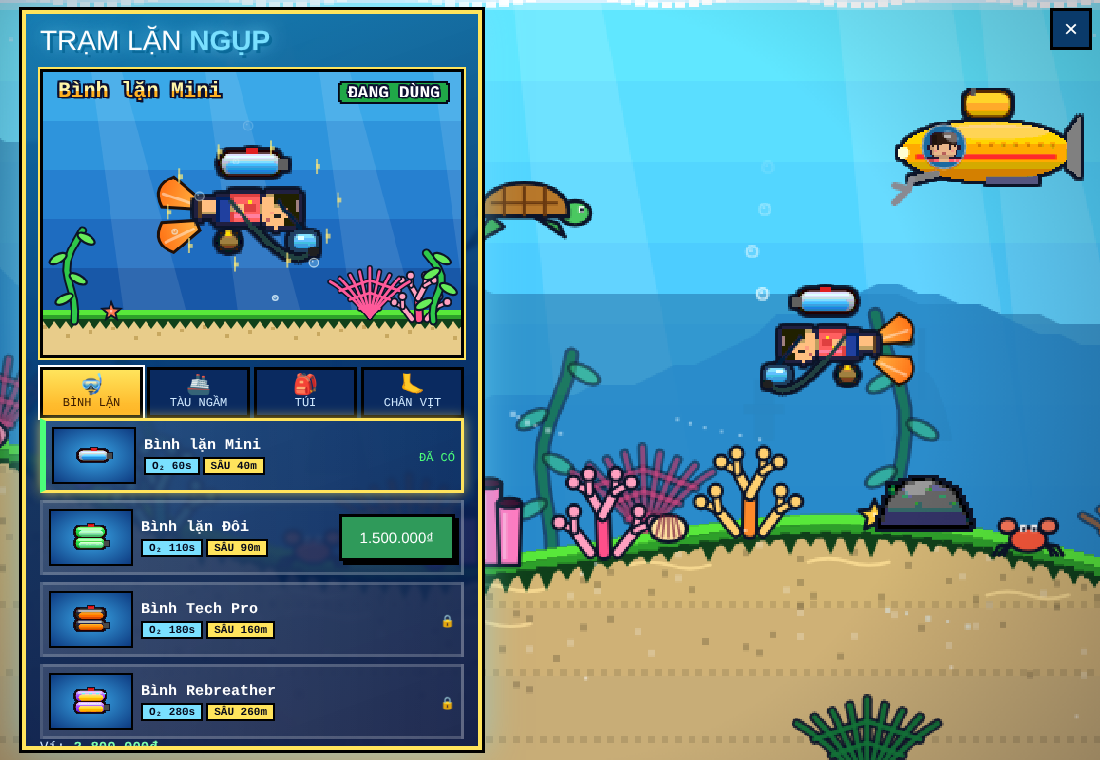
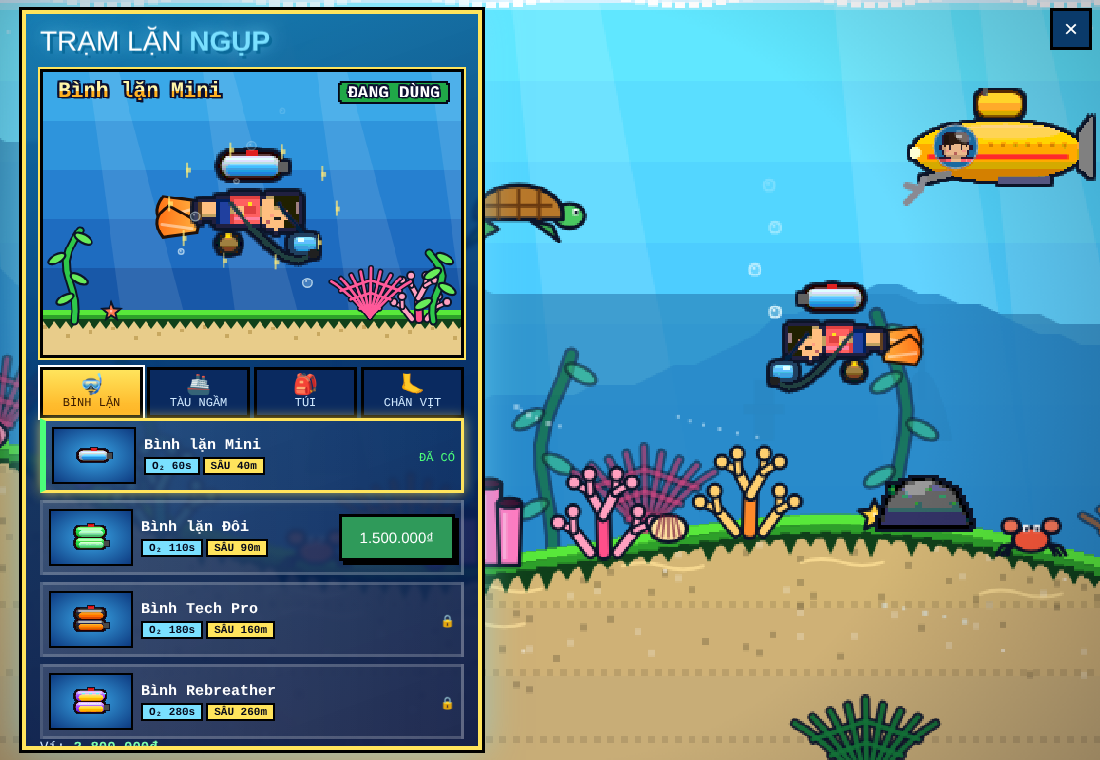
z74: game lặn - sửa cache nhân vật vẽ lại mỗi khung (giật), pattern nền cát, thêm xác tàu đắm và kho báu 300k-2tr
Claude-Session: https://claude.ai/code/session_014q7k2v6edq7HoAjm7rjcRv

diff --git a/avatar.html b/avatar.html
@@ -3862,10 +3862,13 @@ function dvPickItemType(m){const r=Math.random();
 function dvWorld(D){D.items=[];D.wrecks=[];
  for(let x=140;x<DV_WL-200;x+=150+Math.random()*220){if(Math.random()<.6){const y=dvFloor(x)-7;D.items.push({t:dvPickItemType(y/DV_M),x,y})}}
  for(let x=500;x<DV_WL;x+=900+Math.random()*700){const y=dvFloor(x)-9;D.items.push({t:'o2',x,y})}
- DV_WR.forEach(x=>{const fy=dvFloor(x);D.wrecks.push({x,y:fy-26});const m=fy/DV_M;
+ const trv=()=>Math.round((3e5+Math.random()*1.7e6)/5e4)*5e4;
+ const wr=DV_WR.slice();for(let k=0,x=700;x<DV_WL-500&&k<40;k++,x+=500+Math.random()*420){if(wr.every(q=>Math.abs(q-x)>520))wr.push(Math.round(x))}
+ wr.forEach((x,wi)=>{const fy=dvFloor(x);D.wrecks.push({x,y:fy-26,fl:Math.random()<.5?-1:1,sc:.85+Math.random()*.35});const m=fy/DV_M;
   for(let i=0;i<3;i++){const ix=x-40+i*45+Math.random()*10;D.items.push({t:dvPickItemType(m),x:ix,y:dvFloor(ix)-7})}
   D.items.push({t:'o2',x:x+60,y:dvFloor(x+60)-9});
-  if(Math.random()<.35){const v=Math.min(15e6,Math.round((1.5e6+m*45e3*(.7+Math.random()*.6))/5e4)*5e4);D.items.push({t:'chest',x:x+8,y:fy-8,v})}});
+  if(Math.random()<(wi<DV_WR.length?.9:.7))D.items.push({t:'chest',x:x+8,y:fy-8,v:trv()});if(Math.random()<.25)D.items.push({t:'chest',x:x-50,y:dvFloor(x-50)-8,v:trv()})});
+ for(let x=420;x<DV_WL-300;x+=780+Math.random()*900){const y=dvFloor(x)-8;D.items.push({t:'chest',x:Math.round(x),y,v:trv()})}
  const kx=10400,ky=dvFloor(kx);D.items.push({t:'kchest',x:kx+210,y:dvFloor(kx+210)-10,v:15e6});
  D.stn=DV_STX.map(x=>({x,y:dvFloor(x)}));D.cr=[];D.cr.push({t:'kraken',x:kx,y:ky-70,vx:0,vy:0,dir:1,ph:0,cd:0,atk:[],at:2})}
 function dvDim(){const a=innerWidth/Math.max(1,innerHeight);if(a<1.2)return[250,Math.min(560,Math.round(250/a))];return[Math.round(225*Math.min(2.4,a)),225]}
@@ -4096,7 +4099,7 @@ function dvDiverBody(gr){const fr=P&&P.fr&&P.fr.side&&P.fr.side[0];if(!fr)return
  g.strokeStyle='#14283a';g.lineWidth=2.4;g.beginPath();g.moveTo(hx+4,hy-1);g.lineTo(hx-10,hy-18);g.stroke();
  g.strokeStyle='#2a3a48';g.lineWidth=2.2;g.beginPath();g.moveTo(hx+9,hy+10);g.quadraticCurveTo(hx-2,hy+26,-12,-4);g.stroke();g.fillStyle='#111';dvRR(g,hx+7,hy+8,6,5,2);g.fill();
  g.restore();
- DVC2.sw={fr,c:dvOut(dvPix(c,9),DVO,1.6)};return DVC2.sw.c}
+ DVC2.sw={fr,key,c:dvOut(dvPix(c,9),DVO,1.6)};return DVC2.sw.c}
 function dvDrawDiver(g,x,y,dir,vx,vy,t,mv,inv,gr){gr=gr||dvEqNow();const b=dvDiverBody(gr);if(!b)return;const Z=DVZ;g.save();g.translate(Math.round(x*Z)/Z,Math.round(y*Z)/Z);const rot=Math.round(Math.max(-.5,Math.min(.5,vy/110))*(dir)*.9/.1)*.1;if(rot)g.rotate(rot);if(dir<0)g.scale(-1,1);g.imageSmoothingEnabled=false;
  const s=1/Z;g.scale(s,s);
  // chân vịt đạp nước (vẽ sau thân)
@@ -4316,7 +4319,7 @@ function dvRender(){const D=DV,cv=$('#dvCv');if(!cv)return;const Z=DVZ;if(cv.wid
  {g.globalAlpha=.55;const x0=Math.floor((cx*.7-20)/38),x1=Math.floor((cx*.7+W+20)/38);for(let j=x0;j<=x1;j++){const r=dvH(j,41);if(r>.5)continue;const wx=j*38+dvH(j,42)*16,sx=wx-cx*.7,fy=dvFloor(wx+cx*.3)-cy,m=dvFloor(wx+cx*.3)/DV_M;if(sx<-30||sx>W+30||fy<-40||fy>H+60)continue;const kk=Math.floor(r*200);if(m<60){if(kk<40)dKelp(g,sx,fy,t,40+kk%24,'#1a9a52','#3ac880',j);else dFan(g,sx,fy,t,kk%2?'#e84a8a':'#e87a2a')}else if(m<180){if(kk<50)dKelp(g,sx,fy,t,44+kk%24,'#157a8a','#2aa8b0',j);else dTube(g,sx,fy,t,'#6a8ae8')}else{if(kk<50)dShroom(g,sx,fy,t,'80,220,200');else dColumn(g,sx,fy,.5)}}g.globalAlpha=1}
  // đáy biển
  {g.save();g.beginPath();g.moveTo(-4,H+8);for(let sx=-4;sx<=W+4;sx+=3)g.lineTo(sx,dvFloor(cx+sx)-cy);g.lineTo(W+4,H+8);g.closePath();g.clip();
-  const bh=20,w0=Math.floor(cy/bh)*bh;for(let wy=w0;wy<cy+H+bh;wy+=bh){const m=Math.max(0,(wy+bh/2)/DV_M),c=dvSand(Math.round(m/8)*8).map(v=>Math.min(255,Math.round(v*1.06)));g.fillStyle=dvRgb(c);g.fillRect(-6,wy-cy,W+12,bh+.6);g.fillStyle='rgba(0,0,0,.1)';for(let sx=((wy/bh)&1)*2;sx<W;sx+=4)g.fillRect(sx,wy-cy+bh-2,2,2)}
+  const bh=20,w0=Math.floor(cy/bh)*bh;for(let wy=w0;wy<cy+H+bh;wy+=bh){const m=Math.max(0,(wy+bh/2)/DV_M),c=dvSand(Math.round(m/8)*8).map(v=>Math.min(255,Math.round(v*1.06)));g.fillStyle=dvRgb(c);g.fillRect(-6,wy-cy,W+12,bh+.6);{const par=(wy/bh)&1;if(!DVC2.dpat)DVC2.dpat=[0,1].map(q=>{const[tc,tg]=dvCv(4,2);tg.fillStyle='rgba(0,0,0,.1)';tg.fillRect(q*2,0,2,2);return g.createPattern(tc,'repeat')});g.save();g.translate(0,wy-cy+bh-2);g.fillStyle=DVC2.dpat[par];g.fillRect(0,0,W,2);g.restore()}}
   for(let sx=0;sx<=W;sx+=4){const wx=Math.floor((cx+sx)/4),y=dvFloor(cx+sx)-cy;for(let r=0;r<5;r++){const h=dvH(wx,r+5);if(h>.82){g.fillStyle='rgba(0,0,0,.18)';g.fillRect(sx,y+8+r*7+((wx*7)%5),2,2)}else if(h<.1){g.fillStyle='rgba(255,255,255,.22)';g.fillRect(sx,y+6+r*7,2,2)}}}
   g.restore();
   // mép cỏ biển + răng cưa tối (kiểu game island)
@@ -4325,7 +4328,7 @@ function dvRender(){const D=DV,cv=$('#dvCv');if(!cv)return;const Z=DVZ;if(cv.wid
  // trang trí
  g.lineJoin='round';for(let i=Math.floor((cx-50)/26);i<=Math.floor((cx+W+50)/26);i++){const r=dvH(i,2),wx=i*26+Math.floor(dvH(i,1)*12),fy=dvFloor(wx),m=fy/DV_M,x=wx-cx,y=fy-cy+2;if(y<-60||y>H+60)continue;dvDecor(g,i,Math.floor(r*100),m,x,y,t,Z)}
  const nr=dvStnNear();D.stn.forEach(st=>{if(st.x-cx<-60||st.x-cx>W+60)return;dvDrawStation(g,st,cx,cy,t,nr===st)});
- D.wrecks.forEach(w=>{const x=w.x-cx;if(x<-90||x>W+90)return;const sp=dvSpr2('wreck'),ww=sp.width/Z,hh=sp.height/Z;g.drawImage(sp,Math.round((x-ww/2)*Z)/Z,Math.round((w.y-cy-hh*.62)*Z)/Z,ww,hh)});
+ D.wrecks.forEach(w=>{const x=w.x-cx;if(x<-100||x>W+100)return;const sp=dvSpr2('wreck'),sc=w.sc||1,ww=sp.width/Z*sc,hh=sp.height/Z*sc;g.save();g.translate(Math.round(x*Z)/Z,Math.round((w.y-cy-hh*.62)*Z)/Z);if(w.fl<0)g.scale(-1,1);g.drawImage(sp,-ww/2,0,ww,hh);g.restore()});
  D.items.forEach(it=>{const x=it.x-cx,y=it.y-cy+Math.sin(t*2+it.x)*1.2;if(x<-30||x>W+30)return;const s=dvSpr2(it.t),w=s.width/Z,h=s.height/Z;
   if(it.t==='kchest'){const q=g.createRadialGradient(x,y,2,x,y,26+Math.sin(t*3)*3);q.addColorStop(0,'rgba(255,230,120,.5)');q.addColorStop(1,'rgba(255,230,120,0)');g.fillStyle=q;g.fillRect(x-34,y-34,68,68)}
   g.drawImage(s,Math.round((x-w/2)*Z)/Z,Math.round((y-h/2)*Z)/Z,w,h);
@@ -6852,7 +6855,7 @@ function openLmStory(){if(!S||mode!=='world'||modalOpen())return;$('#lmsBody').i
 <div><b>THUẾ THƯỞNG</b>Gốc Chủ đặt thuế 3% (mặc định), 6% (khi cây Lv15), 10% (Lv30) trên thưởng chơi game và Team Building của thành viên, đổ vào quỹ chung. Không có thuế đất. Dưới 3 thành viên thì buff giảm một nửa.</div>
 <div><b>MẸO</b>Bấm vào từng <strong>lô đất</strong> trong vườn để xem tên liên minh, quỹ, danh sách thành viên và nút góp quỹ. Thành viên có biểu tượng liên minh trên đầu. Mỗi người chỉ thuộc một liên minh, rời đi phải chờ 12 giờ mới vào lại.</div>`;$('#lmsOv').hidden=false;keys={}}
 $('#lmsGo').onclick=()=>{$('#lmsOv').hidden=true;walkNear(P2(GARD.gx,FENCE_Y-30))};
-const TEST={on:false,keep:null,fake:false},APPV='14.11.2026-z73';let ERRN=0;const ERRS={};
+const TEST={on:false,keep:null,fake:false},APPV='14.11.2026-z74';let ERRN=0;const ERRS={};
 function errReport(k,msg,stack){try{msg=String(msg||'').slice(0,200);if(!NET.on||!NET.uid||TEST.on||ERRN>=8||ERRS[msg])return;ERRS[msg]=1;ERRN++;NET.db.ref('errlog/'+NET.uid.slice(0,8)+'_'+Date.now().toString(36)).set({u:NET.uid,n:String(P&&P.name||'').slice(0,24),t:Date.now(),k,m:msg,s:String(stack||'').slice(0,700),v:APPV,ua:String(navigator.userAgent).slice(0,140),x:P?Math.round(P.x):0,y:P?Math.round(P.y):0,md:String(mode),vw:innerWidth+'x'+innerHeight}).catch(()=>{})}catch(e){}}
 addEventListener('error',e=>errReport('error',e.message+' @'+(e.lineno||''),e.error&&e.error.stack));addEventListener('unhandledrejection',e=>errReport('promise',e.reason&&e.reason.message||e.reason,e.reason&&e.reason.stack));
 function noopDb(){const f=()=>p;const p=new Proxy(f,{get:(t,k)=>k==='then'?undefined:k==='val'?()=>null:k==='exists'?()=>false:k==='key'?'':p,apply:()=>p});return p}

diff --git a/en/index.html b/en/index.html
@@ -3865,10 +3865,13 @@ function dvPickItemType(m){const r=Math.random();
 function dvWorld(D){D.items=[];D.wrecks=[];
  for(let x=140;x<DV_WL-200;x+=150+Math.random()*220){if(Math.random()<.6){const y=dvFloor(x)-7;D.items.push({t:dvPickItemType(y/DV_M),x,y})}}
  for(let x=500;x<DV_WL;x+=900+Math.random()*700){const y=dvFloor(x)-9;D.items.push({t:'o2',x,y})}
- DV_WR.forEach(x=>{const fy=dvFloor(x);D.wrecks.push({x,y:fy-26});const m=fy/DV_M;
+ const trv=()=>Math.round((3e5+Math.random()*1.7e6)/5e4)*5e4;
+ const wr=DV_WR.slice();for(let k=0,x=700;x<DV_WL-500&&k<40;k++,x+=500+Math.random()*420){if(wr.every(q=>Math.abs(q-x)>520))wr.push(Math.round(x))}
+ wr.forEach((x,wi)=>{const fy=dvFloor(x);D.wrecks.push({x,y:fy-26,fl:Math.random()<.5?-1:1,sc:.85+Math.random()*.35});const m=fy/DV_M;
   for(let i=0;i<3;i++){const ix=x-40+i*45+Math.random()*10;D.items.push({t:dvPickItemType(m),x:ix,y:dvFloor(ix)-7})}
   D.items.push({t:'o2',x:x+60,y:dvFloor(x+60)-9});
-  if(Math.random()<.35){const v=Math.min(15e6,Math.round((1.5e6+m*45e3*(.7+Math.random()*.6))/5e4)*5e4);D.items.push({t:'chest',x:x+8,y:fy-8,v})}});
+  if(Math.random()<(wi<DV_WR.length?.9:.7))D.items.push({t:'chest',x:x+8,y:fy-8,v:trv()});if(Math.random()<.25)D.items.push({t:'chest',x:x-50,y:dvFloor(x-50)-8,v:trv()})});
+ for(let x=420;x<DV_WL-300;x+=780+Math.random()*900){const y=dvFloor(x)-8;D.items.push({t:'chest',x:Math.round(x),y,v:trv()})}
  const kx=10400,ky=dvFloor(kx);D.items.push({t:'kchest',x:kx+210,y:dvFloor(kx+210)-10,v:15e6});
  D.stn=DV_STX.map(x=>({x,y:dvFloor(x)}));D.cr=[];D.cr.push({t:'kraken',x:kx,y:ky-70,vx:0,vy:0,dir:1,ph:0,cd:0,atk:[],at:2})}
 function dvDim(){const a=innerWidth/Math.max(1,innerHeight);if(a<1.2)return[250,Math.min(560,Math.round(250/a))];return[Math.round(225*Math.min(2.4,a)),225]}
@@ -4099,7 +4102,7 @@ function dvDiverBody(gr){const fr=P&&P.fr&&P.fr.side&&P.fr.side[0];if(!fr)return
  g.strokeStyle='#14283a';g.lineWidth=2.4;g.beginPath();g.moveTo(hx+4,hy-1);g.lineTo(hx-10,hy-18);g.stroke();
  g.strokeStyle='#2a3a48';g.lineWidth=2.2;g.beginPath();g.moveTo(hx+9,hy+10);g.quadraticCurveTo(hx-2,hy+26,-12,-4);g.stroke();g.fillStyle='#111';dvRR(g,hx+7,hy+8,6,5,2);g.fill();
  g.restore();
- DVC2.sw={fr,c:dvOut(dvPix(c,9),DVO,1.6)};return DVC2.sw.c}
+ DVC2.sw={fr,key,c:dvOut(dvPix(c,9),DVO,1.6)};return DVC2.sw.c}
 function dvDrawDiver(g,x,y,dir,vx,vy,t,mv,inv,gr){gr=gr||dvEqNow();const b=dvDiverBody(gr);if(!b)return;const Z=DVZ;g.save();g.translate(Math.round(x*Z)/Z,Math.round(y*Z)/Z);const rot=Math.round(Math.max(-.5,Math.min(.5,vy/110))*(dir)*.9/.1)*.1;if(rot)g.rotate(rot);if(dir<0)g.scale(-1,1);g.imageSmoothingEnabled=false;
  const s=1/Z;g.scale(s,s);
  // chân vịt đạp nước (vẽ sau thân)
@@ -4319,7 +4322,7 @@ function dvRender(){const D=DV,cv=$('#dvCv');if(!cv)return;const Z=DVZ;if(cv.wid
  {g.globalAlpha=.55;const x0=Math.floor((cx*.7-20)/38),x1=Math.floor((cx*.7+W+20)/38);for(let j=x0;j<=x1;j++){const r=dvH(j,41);if(r>.5)continue;const wx=j*38+dvH(j,42)*16,sx=wx-cx*.7,fy=dvFloor(wx+cx*.3)-cy,m=dvFloor(wx+cx*.3)/DV_M;if(sx<-30||sx>W+30||fy<-40||fy>H+60)continue;const kk=Math.floor(r*200);if(m<60){if(kk<40)dKelp(g,sx,fy,t,40+kk%24,'#1a9a52','#3ac880',j);else dFan(g,sx,fy,t,kk%2?'#e84a8a':'#e87a2a')}else if(m<180){if(kk<50)dKelp(g,sx,fy,t,44+kk%24,'#157a8a','#2aa8b0',j);else dTube(g,sx,fy,t,'#6a8ae8')}else{if(kk<50)dShroom(g,sx,fy,t,'80,220,200');else dColumn(g,sx,fy,.5)}}g.globalAlpha=1}
  // đáy biển
  {g.save();g.beginPath();g.moveTo(-4,H+8);for(let sx=-4;sx<=W+4;sx+=3)g.lineTo(sx,dvFloor(cx+sx)-cy);g.lineTo(W+4,H+8);g.closePath();g.clip();
-  const bh=20,w0=Math.floor(cy/bh)*bh;for(let wy=w0;wy<cy+H+bh;wy+=bh){const m=Math.max(0,(wy+bh/2)/DV_M),c=dvSand(Math.round(m/8)*8).map(v=>Math.min(255,Math.round(v*1.06)));g.fillStyle=dvRgb(c);g.fillRect(-6,wy-cy,W+12,bh+.6);g.fillStyle='rgba(0,0,0,.1)';for(let sx=((wy/bh)&1)*2;sx<W;sx+=4)g.fillRect(sx,wy-cy+bh-2,2,2)}
+  const bh=20,w0=Math.floor(cy/bh)*bh;for(let wy=w0;wy<cy+H+bh;wy+=bh){const m=Math.max(0,(wy+bh/2)/DV_M),c=dvSand(Math.round(m/8)*8).map(v=>Math.min(255,Math.round(v*1.06)));g.fillStyle=dvRgb(c);g.fillRect(-6,wy-cy,W+12,bh+.6);{const par=(wy/bh)&1;if(!DVC2.dpat)DVC2.dpat=[0,1].map(q=>{const[tc,tg]=dvCv(4,2);tg.fillStyle='rgba(0,0,0,.1)';tg.fillRect(q*2,0,2,2);return g.createPattern(tc,'repeat')});g.save();g.translate(0,wy-cy+bh-2);g.fillStyle=DVC2.dpat[par];g.fillRect(0,0,W,2);g.restore()}}
   for(let sx=0;sx<=W;sx+=4){const wx=Math.floor((cx+sx)/4),y=dvFloor(cx+sx)-cy;for(let r=0;r<5;r++){const h=dvH(wx,r+5);if(h>.82){g.fillStyle='rgba(0,0,0,.18)';g.fillRect(sx,y+8+r*7+((wx*7)%5),2,2)}else if(h<.1){g.fillStyle='rgba(255,255,255,.22)';g.fillRect(sx,y+6+r*7,2,2)}}}
   g.restore();
   // mép cỏ biển + răng cưa tối (kiểu game island)
@@ -4328,7 +4331,7 @@ function dvRender(){const D=DV,cv=$('#dvCv');if(!cv)return;const Z=DVZ;if(cv.wid
  // trang trí
  g.lineJoin='round';for(let i=Math.floor((cx-50)/26);i<=Math.floor((cx+W+50)/26);i++){const r=dvH(i,2),wx=i*26+Math.floor(dvH(i,1)*12),fy=dvFloor(wx),m=fy/DV_M,x=wx-cx,y=fy-cy+2;if(y<-60||y>H+60)continue;dvDecor(g,i,Math.floor(r*100),m,x,y,t,Z)}
  const nr=dvStnNear();D.stn.forEach(st=>{if(st.x-cx<-60||st.x-cx>W+60)return;dvDrawStation(g,st,cx,cy,t,nr===st)});
- D.wrecks.forEach(w=>{const x=w.x-cx;if(x<-90||x>W+90)return;const sp=dvSpr2('wreck'),ww=sp.width/Z,hh=sp.height/Z;g.drawImage(sp,Math.round((x-ww/2)*Z)/Z,Math.round((w.y-cy-hh*.62)*Z)/Z,ww,hh)});
+ D.wrecks.forEach(w=>{const x=w.x-cx;if(x<-100||x>W+100)return;const sp=dvSpr2('wreck'),sc=w.sc||1,ww=sp.width/Z*sc,hh=sp.height/Z*sc;g.save();g.translate(Math.round(x*Z)/Z,Math.round((w.y-cy-hh*.62)*Z)/Z);if(w.fl<0)g.scale(-1,1);g.drawImage(sp,-ww/2,0,ww,hh);g.restore()});
  D.items.forEach(it=>{const x=it.x-cx,y=it.y-cy+Math.sin(t*2+it.x)*1.2;if(x<-30||x>W+30)return;const s=dvSpr2(it.t),w=s.width/Z,h=s.height/Z;
   if(it.t==='kchest'){const q=g.createRadialGradient(x,y,2,x,y,26+Math.sin(t*3)*3);q.addColorStop(0,'rgba(255,230,120,.5)');q.addColorStop(1,'rgba(255,230,120,0)');g.fillStyle=q;g.fillRect(x-34,y-34,68,68)}
   g.drawImage(s,Math.round((x-w/2)*Z)/Z,Math.round((y-h/2)*Z)/Z,w,h);
@@ -6855,7 +6858,7 @@ function openLmStory(){if(!S||mode!=='world'||modalOpen())return;$('#lmsBody').i
 <div><b>THUẾ THƯỞNG</b>Gốc Chủ đặt thuế 3% (mặc định), 6% (khi cây Lv15), 10% (Lv30) trên thưởng chơi game và Team Building của thành viên, đổ vào quỹ chung. Không có thuế đất. Dưới 3 thành viên thì buff giảm một nửa.</div>
 <div><b>MẸO</b>Bấm vào từng <strong>lô đất</strong> trong vườn để xem tên liên minh, quỹ, danh sách thành viên và nút góp quỹ. Thành viên có biểu tượng liên minh trên đầu. Mỗi người chỉ thuộc một liên minh, rời đi phải chờ 12 giờ mới vào lại.</div>`;$('#lmsOv').hidden=false;keys={}}
 $('#lmsGo').onclick=()=>{$('#lmsOv').hidden=true;walkNear(P2(GARD.gx,FENCE_Y-30))};
-const TEST={on:false,keep:null,fake:false},APPV='14.11.2026-z73';let ERRN=0;const ERRS={};
+const TEST={on:false,keep:null,fake:false},APPV='14.11.2026-z74';let ERRN=0;const ERRS={};
 function errReport(k,msg,stack){try{msg=String(msg||'').slice(0,200);if(!NET.on||!NET.uid||TEST.on||ERRN>=8||ERRS[msg])return;ERRS[msg]=1;ERRN++;NET.db.ref('errlog/'+NET.uid.slice(0,8)+'_'+Date.now().toString(36)).set({u:NET.uid,n:String(P&&P.name||'').slice(0,24),t:Date.now(),k,m:msg,s:String(stack||'').slice(0,700),v:APPV,ua:String(navigator.userAgent).slice(0,140),x:P?Math.round(P.x):0,y:P?Math.round(P.y):0,md:String(mode),vw:innerWidth+'x'+innerHeight}).catch(()=>{})}catch(e){}}
 addEventListener('error',e=>errReport('error',e.message+' @'+(e.lineno||''),e.error&&e.error.stack));addEventListener('unhandledrejection',e=>errReport('promise',e.reason&&e.reason.message||e.reason,e.reason&&e.reason.stack));
 function noopDb(){const f=()=>p;const p=new Proxy(f,{get:(t,k)=>k==='then'?undefined:k==='val'?()=>null:k==='exists'?()=>false:k==='key'?'':p,apply:()=>p});return p}

diff --git a/index.html b/index.html
@@ -3865,10 +3865,13 @@ function dvPickItemType(m){const r=Math.random();
 function dvWorld(D){D.items=[];D.wrecks=[];
  for(let x=140;x<DV_WL-200;x+=150+Math.random()*220){if(Math.random()<.6){const y=dvFloor(x)-7;D.items.push({t:dvPickItemType(y/DV_M),x,y})}}
  for(let x=500;x<DV_WL;x+=900+Math.random()*700){const y=dvFloor(x)-9;D.items.push({t:'o2',x,y})}
- DV_WR.forEach(x=>{const fy=dvFloor(x);D.wrecks.push({x,y:fy-26});const m=fy/DV_M;
+ const trv=()=>Math.round((3e5+Math.random()*1.7e6)/5e4)*5e4;
+ const wr=DV_WR.slice();for(let k=0,x=700;x<DV_WL-500&&k<40;k++,x+=500+Math.random()*420){if(wr.every(q=>Math.abs(q-x)>520))wr.push(Math.round(x))}
+ wr.forEach((x,wi)=>{const fy=dvFloor(x);D.wrecks.push({x,y:fy-26,fl:Math.random()<.5?-1:1,sc:.85+Math.random()*.35});const m=fy/DV_M;
   for(let i=0;i<3;i++){const ix=x-40+i*45+Math.random()*10;D.items.push({t:dvPickItemType(m),x:ix,y:dvFloor(ix)-7})}
   D.items.push({t:'o2',x:x+60,y:dvFloor(x+60)-9});
-  if(Math.random()<.35){const v=Math.min(15e6,Math.round((1.5e6+m*45e3*(.7+Math.random()*.6))/5e4)*5e4);D.items.push({t:'chest',x:x+8,y:fy-8,v})}});
+  if(Math.random()<(wi<DV_WR.length?.9:.7))D.items.push({t:'chest',x:x+8,y:fy-8,v:trv()});if(Math.random()<.25)D.items.push({t:'chest',x:x-50,y:dvFloor(x-50)-8,v:trv()})});
+ for(let x=420;x<DV_WL-300;x+=780+Math.random()*900){const y=dvFloor(x)-8;D.items.push({t:'chest',x:Math.round(x),y,v:trv()})}
  const kx=10400,ky=dvFloor(kx);D.items.push({t:'kchest',x:kx+210,y:dvFloor(kx+210)-10,v:15e6});
  D.stn=DV_STX.map(x=>({x,y:dvFloor(x)}));D.cr=[];D.cr.push({t:'kraken',x:kx,y:ky-70,vx:0,vy:0,dir:1,ph:0,cd:0,atk:[],at:2})}
 function dvDim(){const a=innerWidth/Math.max(1,innerHeight);if(a<1.2)return[250,Math.min(560,Math.round(250/a))];return[Math.round(225*Math.min(2.4,a)),225]}
@@ -4099,7 +4102,7 @@ function dvDiverBody(gr){const fr=P&&P.fr&&P.fr.side&&P.fr.side[0];if(!fr)return
  g.strokeStyle='#14283a';g.lineWidth=2.4;g.beginPath();g.moveTo(hx+4,hy-1);g.lineTo(hx-10,hy-18);g.stroke();
  g.strokeStyle='#2a3a48';g.lineWidth=2.2;g.beginPath();g.moveTo(hx+9,hy+10);g.quadraticCurveTo(hx-2,hy+26,-12,-4);g.stroke();g.fillStyle='#111';dvRR(g,hx+7,hy+8,6,5,2);g.fill();
  g.restore();
- DVC2.sw={fr,c:dvOut(dvPix(c,9),DVO,1.6)};return DVC2.sw.c}
+ DVC2.sw={fr,key,c:dvOut(dvPix(c,9),DVO,1.6)};return DVC2.sw.c}
 function dvDrawDiver(g,x,y,dir,vx,vy,t,mv,inv,gr){gr=gr||dvEqNow();const b=dvDiverBody(gr);if(!b)return;const Z=DVZ;g.save();g.translate(Math.round(x*Z)/Z,Math.round(y*Z)/Z);const rot=Math.round(Math.max(-.5,Math.min(.5,vy/110))*(dir)*.9/.1)*.1;if(rot)g.rotate(rot);if(dir<0)g.scale(-1,1);g.imageSmoothingEnabled=false;
  const s=1/Z;g.scale(s,s);
  // chân vịt đạp nước (vẽ sau thân)
@@ -4319,7 +4322,7 @@ function dvRender(){const D=DV,cv=$('#dvCv');if(!cv)return;const Z=DVZ;if(cv.wid
  {g.globalAlpha=.55;const x0=Math.floor((cx*.7-20)/38),x1=Math.floor((cx*.7+W+20)/38);for(let j=x0;j<=x1;j++){const r=dvH(j,41);if(r>.5)continue;const wx=j*38+dvH(j,42)*16,sx=wx-cx*.7,fy=dvFloor(wx+cx*.3)-cy,m=dvFloor(wx+cx*.3)/DV_M;if(sx<-30||sx>W+30||fy<-40||fy>H+60)continue;const kk=Math.floor(r*200);if(m<60){if(kk<40)dKelp(g,sx,fy,t,40+kk%24,'#1a9a52','#3ac880',j);else dFan(g,sx,fy,t,kk%2?'#e84a8a':'#e87a2a')}else if(m<180){if(kk<50)dKelp(g,sx,fy,t,44+kk%24,'#157a8a','#2aa8b0',j);else dTube(g,sx,fy,t,'#6a8ae8')}else{if(kk<50)dShroom(g,sx,fy,t,'80,220,200');else dColumn(g,sx,fy,.5)}}g.globalAlpha=1}
  // đáy biển
  {g.save();g.beginPath();g.moveTo(-4,H+8);for(let sx=-4;sx<=W+4;sx+=3)g.lineTo(sx,dvFloor(cx+sx)-cy);g.lineTo(W+4,H+8);g.closePath();g.clip();
-  const bh=20,w0=Math.floor(cy/bh)*bh;for(let wy=w0;wy<cy+H+bh;wy+=bh){const m=Math.max(0,(wy+bh/2)/DV_M),c=dvSand(Math.round(m/8)*8).map(v=>Math.min(255,Math.round(v*1.06)));g.fillStyle=dvRgb(c);g.fillRect(-6,wy-cy,W+12,bh+.6);g.fillStyle='rgba(0,0,0,.1)';for(let sx=((wy/bh)&1)*2;sx<W;sx+=4)g.fillRect(sx,wy-cy+bh-2,2,2)}
+  const bh=20,w0=Math.floor(cy/bh)*bh;for(let wy=w0;wy<cy+H+bh;wy+=bh){const m=Math.max(0,(wy+bh/2)/DV_M),c=dvSand(Math.round(m/8)*8).map(v=>Math.min(255,Math.round(v*1.06)));g.fillStyle=dvRgb(c);g.fillRect(-6,wy-cy,W+12,bh+.6);{const par=(wy/bh)&1;if(!DVC2.dpat)DVC2.dpat=[0,1].map(q=>{const[tc,tg]=dvCv(4,2);tg.fillStyle='rgba(0,0,0,.1)';tg.fillRect(q*2,0,2,2);return g.createPattern(tc,'repeat')});g.save();g.translate(0,wy-cy+bh-2);g.fillStyle=DVC2.dpat[par];g.fillRect(0,0,W,2);g.restore()}}
   for(let sx=0;sx<=W;sx+=4){const wx=Math.floor((cx+sx)/4),y=dvFloor(cx+sx)-cy;for(let r=0;r<5;r++){const h=dvH(wx,r+5);if(h>.82){g.fillStyle='rgba(0,0,0,.18)';g.fillRect(sx,y+8+r*7+((wx*7)%5),2,2)}else if(h<.1){g.fillStyle='rgba(255,255,255,.22)';g.fillRect(sx,y+6+r*7,2,2)}}}
   g.restore();
   // mép cỏ biển + răng cưa tối (kiểu game island)
@@ -4328,7 +4331,7 @@ function dvRender(){const D=DV,cv=$('#dvCv');if(!cv)return;const Z=DVZ;if(cv.wid
  // trang trí
  g.lineJoin='round';for(let i=Math.floor((cx-50)/26);i<=Math.floor((cx+W+50)/26);i++){const r=dvH(i,2),wx=i*26+Math.floor(dvH(i,1)*12),fy=dvFloor(wx),m=fy/DV_M,x=wx-cx,y=fy-cy+2;if(y<-60||y>H+60)continue;dvDecor(g,i,Math.floor(r*100),m,x,y,t,Z)}
  const nr=dvStnNear();D.stn.forEach(st=>{if(st.x-cx<-60||st.x-cx>W+60)return;dvDrawStation(g,st,cx,cy,t,nr===st)});
- D.wrecks.forEach(w=>{const x=w.x-cx;if(x<-90||x>W+90)return;const sp=dvSpr2('wreck'),ww=sp.width/Z,hh=sp.height/Z;g.drawImage(sp,Math.round((x-ww/2)*Z)/Z,Math.round((w.y-cy-hh*.62)*Z)/Z,ww,hh)});
+ D.wrecks.forEach(w=>{const x=w.x-cx;if(x<-100||x>W+100)return;const sp=dvSpr2('wreck'),sc=w.sc||1,ww=sp.width/Z*sc,hh=sp.height/Z*sc;g.save();g.translate(Math.round(x*Z)/Z,Math.round((w.y-cy-hh*.62)*Z)/Z);if(w.fl<0)g.scale(-1,1);g.drawImage(sp,-ww/2,0,ww,hh);g.restore()});
  D.items.forEach(it=>{const x=it.x-cx,y=it.y-cy+Math.sin(t*2+it.x)*1.2;if(x<-30||x>W+30)return;const s=dvSpr2(it.t),w=s.width/Z,h=s.height/Z;
   if(it.t==='kchest'){const q=g.createRadialGradient(x,y,2,x,y,26+Math.sin(t*3)*3);q.addColorStop(0,'rgba(255,230,120,.5)');q.addColorStop(1,'rgba(255,230,120,0)');g.fillStyle=q;g.fillRect(x-34,y-34,68,68)}
   g.drawImage(s,Math.round((x-w/2)*Z)/Z,Math.round((y-h/2)*Z)/Z,w,h);
@@ -6855,7 +6858,7 @@ function openLmStory(){if(!S||mode!=='world'||modalOpen())return;$('#lmsBody').i
 <div><b>THUẾ THƯỞNG</b>Gốc Chủ đặt thuế 3% (mặc định), 6% (khi cây Lv15), 10% (Lv30) trên thưởng chơi game và Team Building của thành viên, đổ vào quỹ chung. Không có thuế đất. Dưới 3 thành viên thì buff giảm một nửa.</div>
 <div><b>MẸO</b>Bấm vào từng <strong>lô đất</strong> trong vườn để xem tên liên minh, quỹ, danh sách thành viên và nút góp quỹ. Thành viên có biểu tượng liên minh trên đầu. Mỗi người chỉ thuộc một liên minh, rời đi phải chờ 12 giờ mới vào lại.</div>`;$('#lmsOv').hidden=false;keys={}}
 $('#lmsGo').onclick=()=>{$('#lmsOv').hidden=true;walkNear(P2(GARD.gx,FENCE_Y-30))};
-const TEST={on:false,keep:null,fake:false},APPV='14.11.2026-z73';let ERRN=0;const ERRS={};
+const TEST={on:false,keep:null,fake:false},APPV='14.11.2026-z74';let ERRN=0;const ERRS={};
 function errReport(k,msg,stack){try{msg=String(msg||'').slice(0,200);if(!NET.on||!NET.uid||TEST.on||ERRN>=8||ERRS[msg])return;ERRS[msg]=1;ERRN++;NET.db.ref('errlog/'+NET.uid.slice(0,8)+'_'+Date.now().toString(36)).set({u:NET.uid,n:String(P&&P.name||'').slice(0,24),t:Date.now(),k,m:msg,s:String(stack||'').slice(0,700),v:APPV,ua:String(navigator.userAgent).slice(0,140),x:P?Math.round(P.x):0,y:P?Math.round(P.y):0,md:String(mode),vw:innerWidth+'x'+innerHeight}).catch(()=>{})}catch(e){}}
 addEventListener('error',e=>errReport('error',e.message+' @'+(e.lineno||''),e.error&&e.error.stack));addEventListener('unhandledrejection',e=>errReport('promise',e.reason&&e.reason.message||e.reason,e.reason&&e.reason.stack));
 function noopDb(){const f=()=>p;const p=new Proxy(f,{get:(t,k)=>k==='then'?undefined:k==='val'?()=>null:k==='exists'?()=>false:k==='key'?'':p,apply:()=>p});return p}

diff --git a/README.md b/README.md
@@ -900,3 +900,10 @@ Trước đây phải chờ đủ 90 giây mới kết thúc. Giờ tối đa 40
 - Sức chứa túi (ô): Giỏ lưới mượn 3→8, Túi ba gang 5→14, Ba gang lớn 10→24, Lưới siêu bền 18→40, Không đáy 30→64. Túi mặc định chứa đủ 8 con cá ngừ = 2.000.000₫; túi càng đắt càng nhiều. Thanh túi trên HUD co giãn theo sức chứa (tối đa 30 ô vẽ).
 - Lên bờ: hiện thông báo "Lên bờ! Bạn kiếm được X (ròng Y nếu có phí oxy/ăn nghỉ)" và dòng lớn "KIẾM ĐƯỢC +X" ở bảng kết quả.
 - Không cần chạy SQL.
+
+## 14.11.2026-z74 · Game lặn: sửa giật thật sự + thêm xác tàu đắm & kho báu
+- Nguyên nhân giật chính (đã đo bằng profiler): sprite nhân vật lặn bị vẽ lại từ đầu + `getImageData` (đọc ngược pixel) + tạo canvas MỖI khung hình do cache thiếu khoá `key` (lỗi từ bản z67). Trên GPU/điện thoại việc đọc ngược pixel gây khựng nặng. Đã sửa cache: 0 lần getImageData và ~0 canvas mới mỗi khung.
+- Giảm ~1.300 lệnh vẽ ô nhỏ mỗi khung ở nền cát (dùng pattern lặp thay vì từng chấm): fillRect 2.200 → ~950/khung.
+- Xác tàu đắm: từ 6 lên ~13 chiếc (thêm vị trí ngẫu nhiên, lật trái/phải và đổi cỡ cho đa dạng). Mỗi xác có rương kho báu 70–90%, thêm 25% rương phụ cạnh xác, và rương chôn lẻ rải dọc đáy biển.
+- Giá trị mọi rương ngẫu nhiên 300.000₫ – 2.000.000₫ (Rương của Draken 15 triệu giữ nguyên).
+- Không cần chạy SQL.
